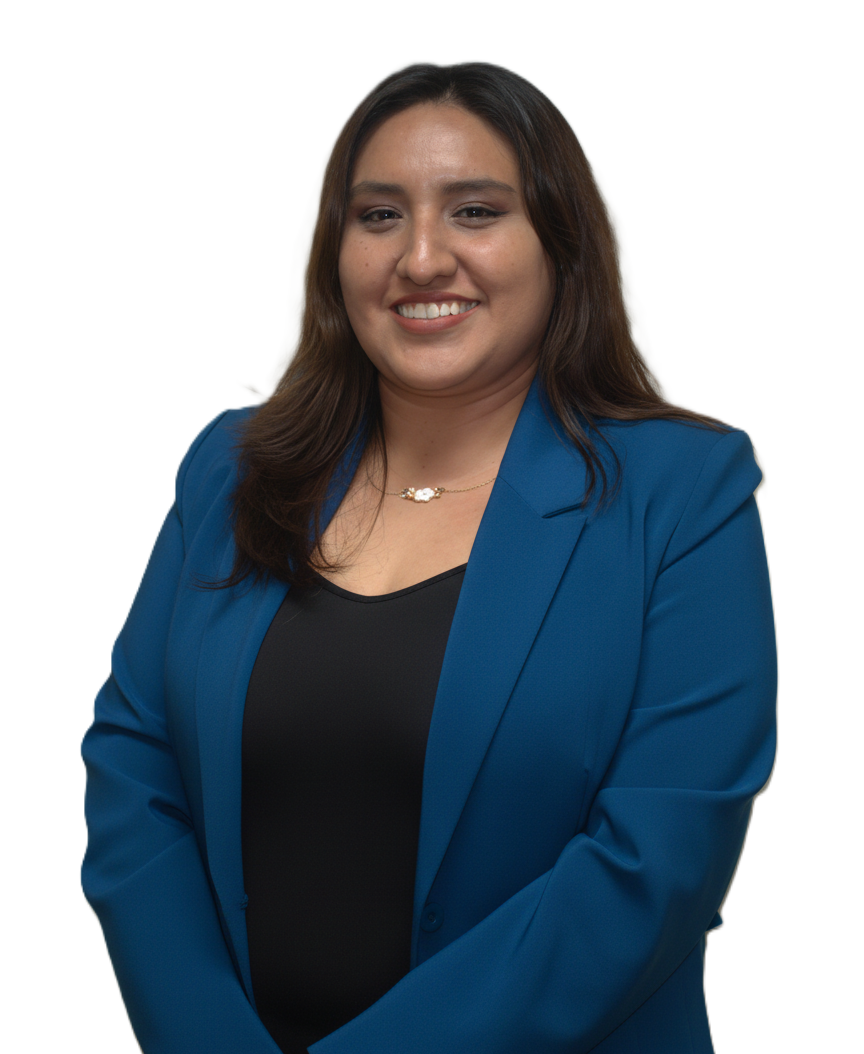
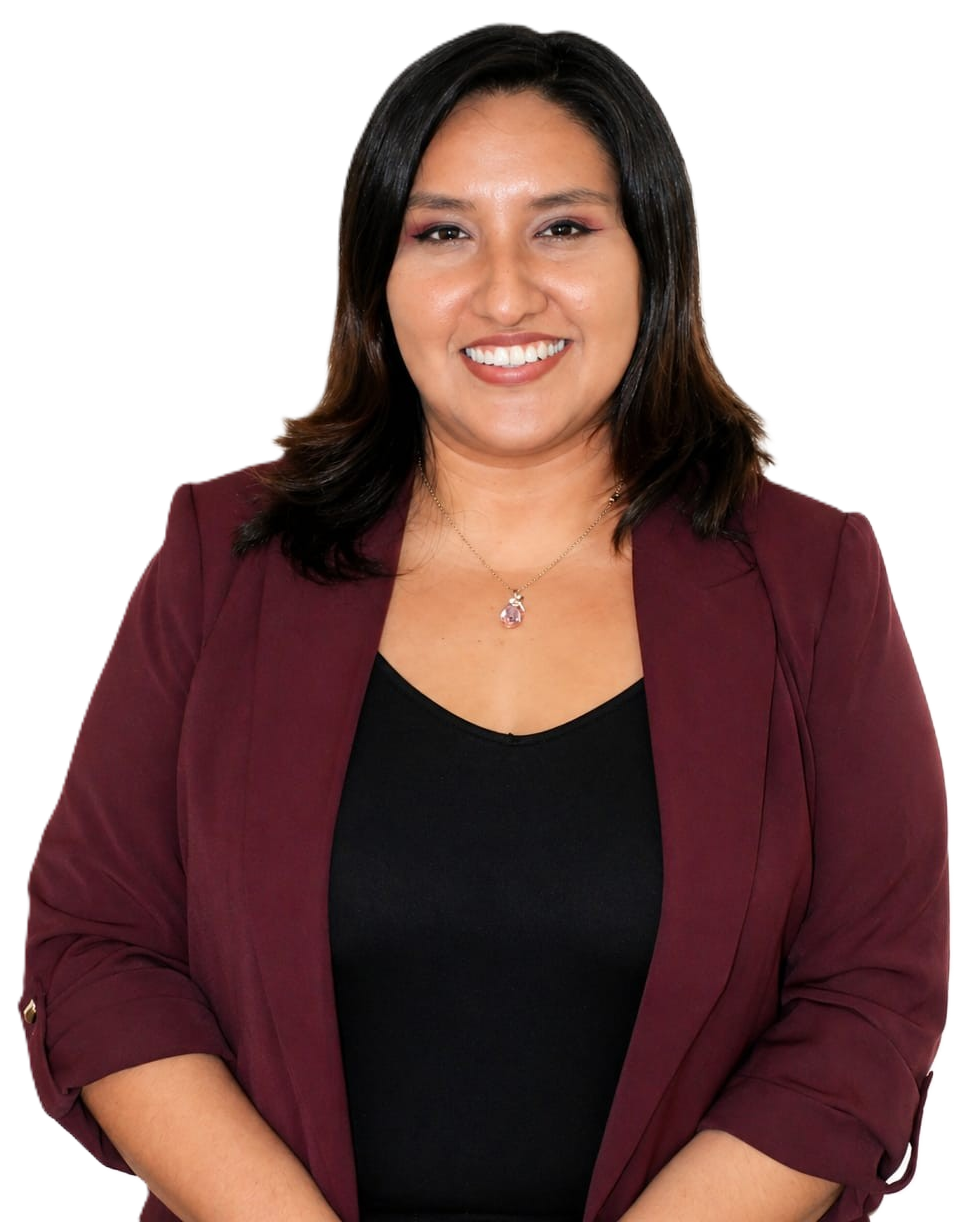
orden de equipo

diff --git a/src/data/teamData.js b/src/data/teamData.js
@@ -142,6 +142,50 @@ export const teamMembers = {
             "infraestructura"
         ]
     },
+    "melissa-sanchez": {
+        "slug": "melissa-sanchez",
+        "name": "Melissa Sánchez",
+        "role": "Directora",
+        "photos": {
+            "formal": "/melissa-sanchez.png",
+            "casual": "/melissa-sanchez.png",
+            "detail": "/melissa-sanchez.png",
+            "extra": "/melissa-sanchez.png"
+        },
+        "linkedin": "https://www.linkedin.com/in/melissa-s%C3%A1nchez-cam%C3%A1n-a2b67b161/",
+        "intro": "Melissa lidera el área administrativa del Centro para la Competitividad y el Desarrollo (CCD), principalmente en la gestión y organización de los recursos, personas y procesos dentro de la organización.",
+        "about": "Melissa cuenta con amplia experiencia en la gestión administrativa de proyectos, gestión de equipos y procesos internos con clientes. Melissa comenzó su carrera en el área administrativa en el CCD en el año 2019. Desde el año 2021, Melissa lidera el área de Administración, donde se encarga de coordinar y gestionar contratos, órdenes de servicio, presupuestos, cobranzas a clientes y envío de informes.",
+        "experience": [
+            "Melissa comenzó su carrera profesional trabajando en el sector bancario como Representante Financiero en el Banco Financiero, donde desarrolló habilidades en atención al cliente y gestión de transacciones financieras diarias, brindando un servicio eficiente y cordial, resolviendo consultas relacionadas con cuentas bancarias, pagos y transacciones.",
+            "Melissa ha sido asistente administrativa en el Centro para la Competitividad y el Desarrollo (CCD). En esta etapa, sus funciones fueron la gestión de documentos tanto físicos como digitales, asegurando que la información estuviera ordenada, así como organizar reuniones y administrar los recursos necesarios para que cada área cuente con lo necesario para un buen funcionamiento."
+        ],
+        "education": [
+            {
+                "degree": "Bachiller en Administración de Negocios Internacionales",
+                "institution": "Universidad Femenina del Sagrado Corazón (UNIFE)",
+                "logos": [
+                    "/logos/logo-unife.jpg"
+                ]
+            },
+            {
+                "degree": "KEY USER SAP B1",
+                "institution": "ITSYSTEMS PERU",
+                "logos": [
+                    "/logos/logo-its.jpg"
+                ]
+            }
+        ],
+        "highlightedCapabilities": [
+            "evaluacion",
+            "competitividad",
+            "desarrollo"
+        ],
+        "highlightedIndustries": [
+            "sector_publico",
+            "sector_social",
+            "educacion"
+        ]
+    },
     "alvaro-gordillo": {
         "slug": "alvaro-gordillo",
         "name": "Alvaro Gordillo",
@@ -195,6 +239,99 @@ export const teamMembers = {
             "agricultura",
             "educacion",
             "mineria"
+        ]
+    },
+    "karla-casas": {
+        "slug": "karla-casas",
+        "name": "Karla Casas",
+        "role": "Competitividad, Desarrollo y Proyectos Sociales",
+        "photos": {
+            "formal": "https://res.cloudinary.com/ccdcloudy/image/upload/v1778831945/Web%20CCD/Equipo/Karla/karla-casas_ia4gb9.png",
+            "casual": "https://res.cloudinary.com/ccdcloudy/image/upload/v1778832960/Web%20CCD/Equipo/Karla/Karla-casas_gdfadu.png",
+            "detail": "https://res.cloudinary.com/ccdcloudy/image/upload/v1778832960/Web%20CCD/Equipo/Karla/Karla-casas_gdfadu.png",
+            "extra": ""
+        },
+        "linkedin": "https://www.linkedin.com/in/karla-casas-b1384146/",
+        "intro": "Economista con amplia experiencia en desarrollo y competitividad e impacto social en la gestión pública y privada para el desarrollo regional, local y comunal. Lidera proyectos claves orientados a generar impacto social e innovación a través de soluciones estratégicas y sostenibles en sectores como educación y salud, entre otros sectores pilares del desarrollo.",
+        "about": "Karla cuenta con más de 7 años de experiencia en desarrollo, competitividad e impacto social de programas y proyectos, tanto en el sector público como privado. Ha trabajado como especialista en prospectiva y estudios estratégicos en el Centro Nacional de Planeamiento Estratégico (CEPLAN), además de participar en la formulación de planes de desarrollo local concertados para diversos gobiernos regionales y locales (provinciales y distritales). Asimismo, trabajó como especialista en Walsh Perú, participando en la elaboración de estudios de impacto ambiental (EIA y MEIA) de importantes proyectos para el desarrollo del país. Actualmente, ocupa el cargo de Jefe de Proyecto en el Centro para la Competitividad y el Desarrollo (CCD), donde lidera proyectos estratégicos de alto impacto en competitividad, desarrollo económico y gestión pública.",
+        "experience": [
+            "Karla ha sido especialista en la Dirección Nacional de Prospectiva y Estudios Estratégicos de CEPLAN, participando en proyectos claves relacionados con la actividad portuaria y el impacto en el desarrollo nacional: 'Actividad portuaria: impactos y oportunidades para el desarrollo nacional'. En esta herramienta fundamental para convertir al país en un megahub portuario del Pacífico participaron especialistas y actores claves para profundizar en el análisis, además de desarrollar propuestas estratégicas para mejorar la competitividad de los territorios con conectividad portuaria.",
+            "Por más de 5 años ha sido consultora en el Centro para la Competitividad y el Desarrollo (CCD), como líder y co-líder en proyectos de competitividad, fortalecimiento institucional, desarrollo económico, gestión pública y estudios económicos. Karla laboró como especialista en Estudios Sociales Junior en Walsh Perú, en la elaboración de la Línea de Base Socioeconómica y Catastro para proyectos claves para importantes empresas minero-energéticas del país, utilizando herramientas como KMZ y QGIS.",
+            "Karla cuenta con experiencia en la jefatura de prácticas en la Escuela de Economía en la Universidad de San Martín de Porres (USMP), en los cursos: Economía Pública y Recursos Naturales; y Dinámica, Ciclos y Estabilización."
+        ],
+        "education": [
+            {
+                "degree": "Diplomado de Gobernabilidad e Innovación Pública",
+                "institution": [
+                    "Pontificia Universidad Católica del Perú (PUCP)",
+                    "Banco de Desarrollo de América Latina y el Caribe (CAF)"
+                ],
+                "logos": [
+                    "/logos/logo-pucp.png",
+                    "/logos/logo-caf.jpg"
+                ]
+            },
+            {
+                "degree": "Economista",
+                "institution": "Universidad San Martín de Porres (USMP)",
+                "logos": [
+                    "/logos/logo-usmp.png"
+                ]
+            }
+        ],
+        "highlightedCapabilities": [
+            "desarrollo",
+            "competitividad",
+            "fortalecimiento"
+        ],
+        "highlightedIndustries": [
+            "infraestructura",
+            "educacion",
+            "sector_social"
+        ]
+    },
+    "jorge-ruiz": {
+        "slug": "jorge-ruiz",
+        "name": "Jorge Ruiz",
+        "role": "Competitividad, Desarrollo y Manufactura",
+        "photos": {
+            "formal": "https://res.cloudinary.com/ccdcloudy/image/upload/v1778835514/Web%20CCD/Equipo/Jorge/jorge-ruiz1_nthcep.png",
+            "casual": "https://res.cloudinary.com/ccdcloudy/image/upload/v1778835185/Web%20CCD/Equipo/Jorge/jorge-ruiz_ducukr.png",
+            "detail": "https://res.cloudinary.com/ccdcloudy/image/upload/v1778835185/Web%20CCD/Equipo/Jorge/jorge-ruiz_ducukr.png",
+            "extra": "/jorge-ruiz.png"
+        },
+        "linkedin": "https://www.linkedin.com/in/jorge-andrew-ruiz-barrios-ba27b1203/",
+        "intro": "Jorge lidera nuestro trabajo sobre competitividad y desarrollo local concertado a nivel distrital, con soporte del área de estudios económicos, investigación, sistematización y análisis de información estadística.",
+        "about": "Jorge tiene amplia experiencia en la elaboración de Planes de Desarrollo Local Concertado (PDLC) para diversos distritos, contribuyendo al diseño de estrategias orientadas al crecimiento económico y social. Inició su carrera en 2021 en el Centro para la Competitividad y el Desarrollo (CCD), donde ha participado en el análisis y planificación de iniciativas para el desarrollo territorial.",
+        "experience": [
+            "Jorge ha trabajado como analista de investigación en estudios económicos en el CCD, desempeñando diversas funciones clave. Ha participado en la elaboración de informes económicos, financieros y globales, en la evaluación Ex-post de proyectos de inversión y en el diseño de planes de competitividad regional y desarrollo local. También ha participado en la redacción de informes de evaluación Ex-post de proyectos de infraestructura, con un enfoque particular en sistemas de riego, aportando al análisis de su eficiencia y al análisis comparativo con otros proyectos similares.",
+            "Jorge ha sido asistente de investigación de estudios económicos en el CCD, desempeñando funciones como recopilación de series estadísticas y elaboración de documentos de investigación. Jorge participó como investigador y redactor en la cuarta edición de la revista Escenario Económico (junio 2021), con el tema 'Educación Virtual: Lecciones que desnudan nuestra realidad. Análisis económicos, retos y experiencias', publicada por el Círculo Académico de Planificación y Proyectos (CAPP). Su contribución se centró en la sección de noticias internacionales sobre América Latina."
+        ],
+        "education": [
+            {
+                "degree": "Metodología Ágil – Scrum Master",
+                "institution": "Edúcate Perú Consultores",
+                "logos": [
+                    "/logos/logo-epc.png"
+                ]
+            },
+            {
+                "degree": "Bachiller en Ingeniería Económica",
+                "institution": "Universidad Nacional de Ingeniería (UNI)",
+                "logos": [
+                    "/logos/logo-uni2.png"
+                ]
+            }
+        ],
+        "highlightedCapabilities": [
+            "desarrollo",
+            "evaluacion",
+            "corredores"
+        ],
+        "highlightedIndustries": [
+            "infraestructura",
+            "agricultura",
+            "sector_social"
         ]
     },
     "fernando-jauregui": {
@@ -439,143 +576,8 @@ export const teamMembers = {
             "sector_publico"
         ]
     },
-    "karla-casas": {
-        "slug": "karla-casas",
-        "name": "Karla Casas",
-        "role": "Competitividad, Desarrollo y Proyectos Sociales",
-        "photos": {
-            "formal": "/karla-casas.png",
-            "casual": "/karla-casas.png",
-            "detail": "/karla-casas.png",
-            "extra": "/karla-casas.png"
-        },
-        "linkedin": "https://www.linkedin.com/in/karla-casas-b1384146/",
-        "intro": "Economista con amplia experiencia en desarrollo y competitividad e impacto social en la gestión pública y privada para el desarrollo regional, local y comunal. Lidera proyectos claves orientados a generar impacto social e innovación a través de soluciones estratégicas y sostenibles en sectores como educación y salud, entre otros sectores pilares del desarrollo.",
-        "about": "Karla cuenta con más de 7 años de experiencia en desarrollo, competitividad e impacto social de programas y proyectos, tanto en el sector público como privado. Ha trabajado como especialista en prospectiva y estudios estratégicos en el Centro Nacional de Planeamiento Estratégico (CEPLAN), además de participar en la formulación de planes de desarrollo local concertados para diversos gobiernos regionales y locales (provinciales y distritales). Asimismo, trabajó como especialista en Walsh Perú, participando en la elaboración de estudios de impacto ambiental (EIA y MEIA) de importantes proyectos para el desarrollo del país. Actualmente, ocupa el cargo de Jefe de Proyecto en el Centro para la Competitividad y el Desarrollo (CCD), donde lidera proyectos estratégicos de alto impacto en competitividad, desarrollo económico y gestión pública.",
-        "experience": [
-            "Karla ha sido especialista en la Dirección Nacional de Prospectiva y Estudios Estratégicos de CEPLAN, participando en proyectos claves relacionados con la actividad portuaria y el impacto en el desarrollo nacional: 'Actividad portuaria: impactos y oportunidades para el desarrollo nacional'. En esta herramienta fundamental para convertir al país en un megahub portuario del Pacífico participaron especialistas y actores claves para profundizar en el análisis, además de desarrollar propuestas estratégicas para mejorar la competitividad de los territorios con conectividad portuaria.",
-            "Por más de 5 años ha sido consultora en el Centro para la Competitividad y el Desarrollo (CCD), como líder y co-líder en proyectos de competitividad, fortalecimiento institucional, desarrollo económico, gestión pública y estudios económicos. Karla laboró como especialista en Estudios Sociales Junior en Walsh Perú, en la elaboración de la Línea de Base Socioeconómica y Catastro para proyectos claves para importantes empresas minero-energéticas del país, utilizando herramientas como KMZ y QGIS.",
-            "Karla cuenta con experiencia en la jefatura de prácticas en la Escuela de Economía en la Universidad de San Martín de Porres (USMP), en los cursos: Economía Pública y Recursos Naturales; y Dinámica, Ciclos y Estabilización."
-        ],
-        "education": [
-            {
-                "degree": "Diplomado de Gobernabilidad e Innovación Pública",
-                "institution": [
-                    "Pontificia Universidad Católica del Perú (PUCP)",
-                    "Banco de Desarrollo de América Latina y el Caribe (CAF)"
-                ],
-                "logos": [
-                    "/logos/logo-pucp.png",
-                    "/logos/logo-caf.jpg"
-                ]
-            },
-            {
-                "degree": "Economista",
-                "institution": "Universidad San Martín de Porres (USMP)",
-                "logos": [
-                    "/logos/logo-usmp.png"
-                ]
-            }
-        ],
-        "highlightedCapabilities": [
-            "desarrollo",
-            "competitividad",
-            "fortalecimiento"
-        ],
-        "highlightedIndustries": [
-            "infraestructura",
-            "educacion",
-            "sector_social"
-        ]
-    },
-    "melissa-sanchez": {
-        "slug": "melissa-sanchez",
-        "name": "Melissa Sánchez",
-        "role": "Directora",
-        "photos": {
-            "formal": "/melissa-sanchez.png",
-            "casual": "/melissa-sanchez.png",
-            "detail": "/melissa-sanchez.png",
-            "extra": "/melissa-sanchez.png"
-        },
-        "linkedin": "https://www.linkedin.com/in/melissa-s%C3%A1nchez-cam%C3%A1n-a2b67b161/",
-        "intro": "Melissa lidera el área administrativa del Centro para la Competitividad y el Desarrollo (CCD), principalmente en la gestión y organización de los recursos, personas y procesos dentro de la organización.",
-        "about": "Melissa cuenta con amplia experiencia en la gestión administrativa de proyectos, gestión de equipos y procesos internos con clientes. Melissa comenzó su carrera en el área administrativa en el CCD en el año 2019. Desde el año 2021, Melissa lidera el área de Administración, donde se encarga de coordinar y gestionar contratos, órdenes de servicio, presupuestos, cobranzas a clientes y envío de informes.",
-        "experience": [
-            "Melissa comenzó su carrera profesional trabajando en el sector bancario como Representante Financiero en el Banco Financiero, donde desarrolló habilidades en atención al cliente y gestión de transacciones financieras diarias, brindando un servicio eficiente y cordial, resolviendo consultas relacionadas con cuentas bancarias, pagos y transacciones.",
-            "Melissa ha sido asistente administrativa en el Centro para la Competitividad y el Desarrollo (CCD). En esta etapa, sus funciones fueron la gestión de documentos tanto físicos como digitales, asegurando que la información estuviera ordenada, así como organizar reuniones y administrar los recursos necesarios para que cada área cuente con lo necesario para un buen funcionamiento."
-        ],
-        "education": [
-            {
-                "degree": "Bachiller en Administración de Negocios Internacionales",
-                "institution": "Universidad Femenina del Sagrado Corazón (UNIFE)",
-                "logos": [
-                    "/logos/logo-unife.jpg"
-                ]
-            },
-            {
-                "degree": "KEY USER SAP B1",
-                "institution": "ITSYSTEMS PERU",
-                "logos": [
-                    "/logos/logo-its.jpg"
-                ]
-            }
-        ],
-        "highlightedCapabilities": [
-            "evaluacion",
-            "competitividad",
-            "desarrollo"
-        ],
-        "highlightedIndustries": [
-            "sector_publico",
-            "sector_social",
-            "educacion"
-        ]
-    },
-    "jorge-ruiz": {
-        "slug": "jorge-ruiz",
-        "name": "Jorge Ruiz",
-        "role": "Competitividad, Desarrollo y Manufactura",
-        "photos": {
-            "formal": "/jorge-ruiz.png",
-            "casual": "/jorge-ruiz.png",
-            "detail": "/jorge-ruiz.png",
-            "extra": "/jorge-ruiz.png"
-        },
-        "linkedin": "https://www.linkedin.com/in/jorge-andrew-ruiz-barrios-ba27b1203/",
-        "intro": "Jorge lidera nuestro trabajo sobre competitividad y desarrollo local concertado a nivel distrital, con soporte del área de estudios económicos, investigación, sistematización y análisis de información estadística.",
-        "about": "Jorge tiene amplia experiencia en la elaboración de Planes de Desarrollo Local Concertado (PDLC) para diversos distritos, contribuyendo al diseño de estrategias orientadas al crecimiento económico y social. Inició su carrera en 2021 en el Centro para la Competitividad y el Desarrollo (CCD), donde ha participado en el análisis y planificación de iniciativas para el desarrollo territorial.",
-        "experience": [
-            "Jorge ha trabajado como analista de investigación en estudios económicos en el CCD, desempeñando diversas funciones clave. Ha participado en la elaboración de informes económicos, financieros y globales, en la evaluación Ex-post de proyectos de inversión y en el diseño de planes de competitividad regional y desarrollo local. También ha participado en la redacción de informes de evaluación Ex-post de proyectos de infraestructura, con un enfoque particular en sistemas de riego, aportando al análisis de su eficiencia y al análisis comparativo con otros proyectos similares.",
-            "Jorge ha sido asistente de investigación de estudios económicos en el CCD, desempeñando funciones como recopilación de series estadísticas y elaboración de documentos de investigación. Jorge participó como investigador y redactor en la cuarta edición de la revista Escenario Económico (junio 2021), con el tema 'Educación Virtual: Lecciones que desnudan nuestra realidad. Análisis económicos, retos y experiencias', publicada por el Círculo Académico de Planificación y Proyectos (CAPP). Su contribución se centró en la sección de noticias internacionales sobre América Latina."
-        ],
-        "education": [
-            {
-                "degree": "Metodología Ágil – Scrum Master",
-                "institution": "Edúcate Perú Consultores",
-                "logos": [
-                    "/logos/logo-epc.png"
-                ]
-            },
-            {
-                "degree": "Bachiller en Ingeniería Económica",
-                "institution": "Universidad Nacional de Ingeniería (UNI)",
-                "logos": [
-                    "/logos/logo-uni2.png"
-                ]
-            }
-        ],
-        "highlightedCapabilities": [
-            "desarrollo",
-            "evaluacion",
-            "corredores"
-        ],
-        "highlightedIndustries": [
-            "infraestructura",
-            "agricultura",
-            "sector_social"
-        ]
-    },
+
+
     "mario-huaman": {
         "slug": "mario-huaman",
         "name": "Mario Huamán",